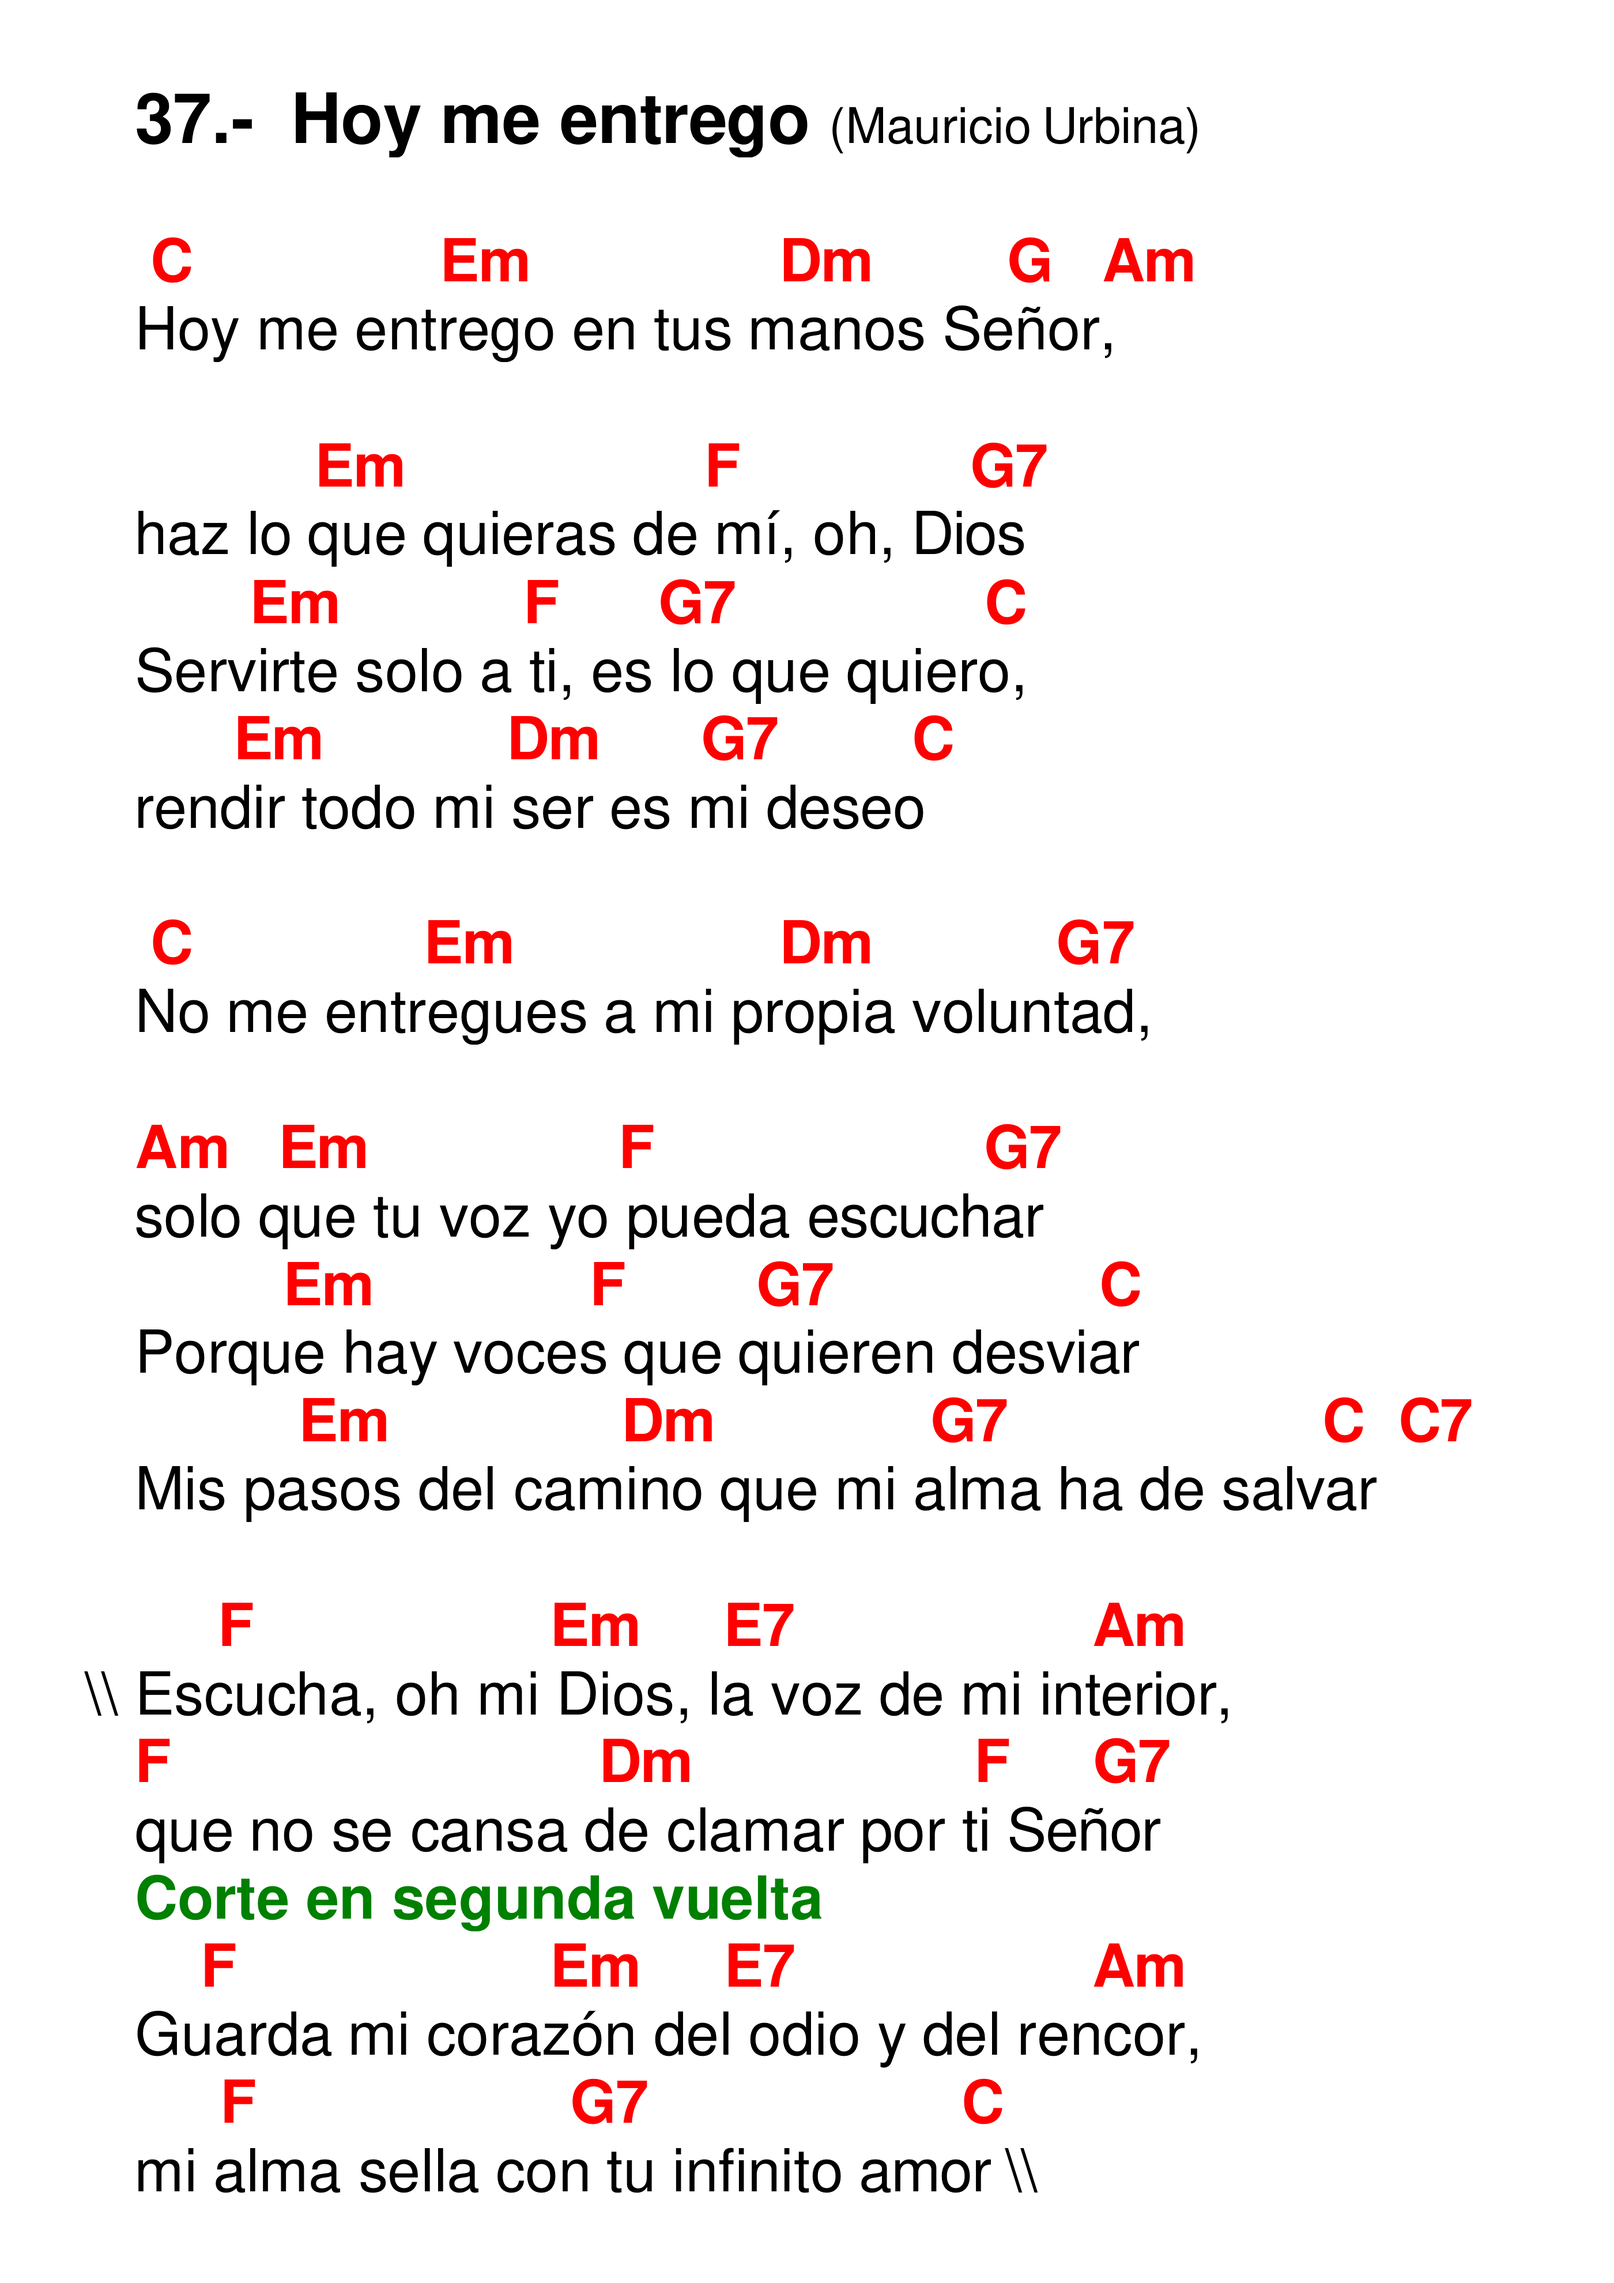
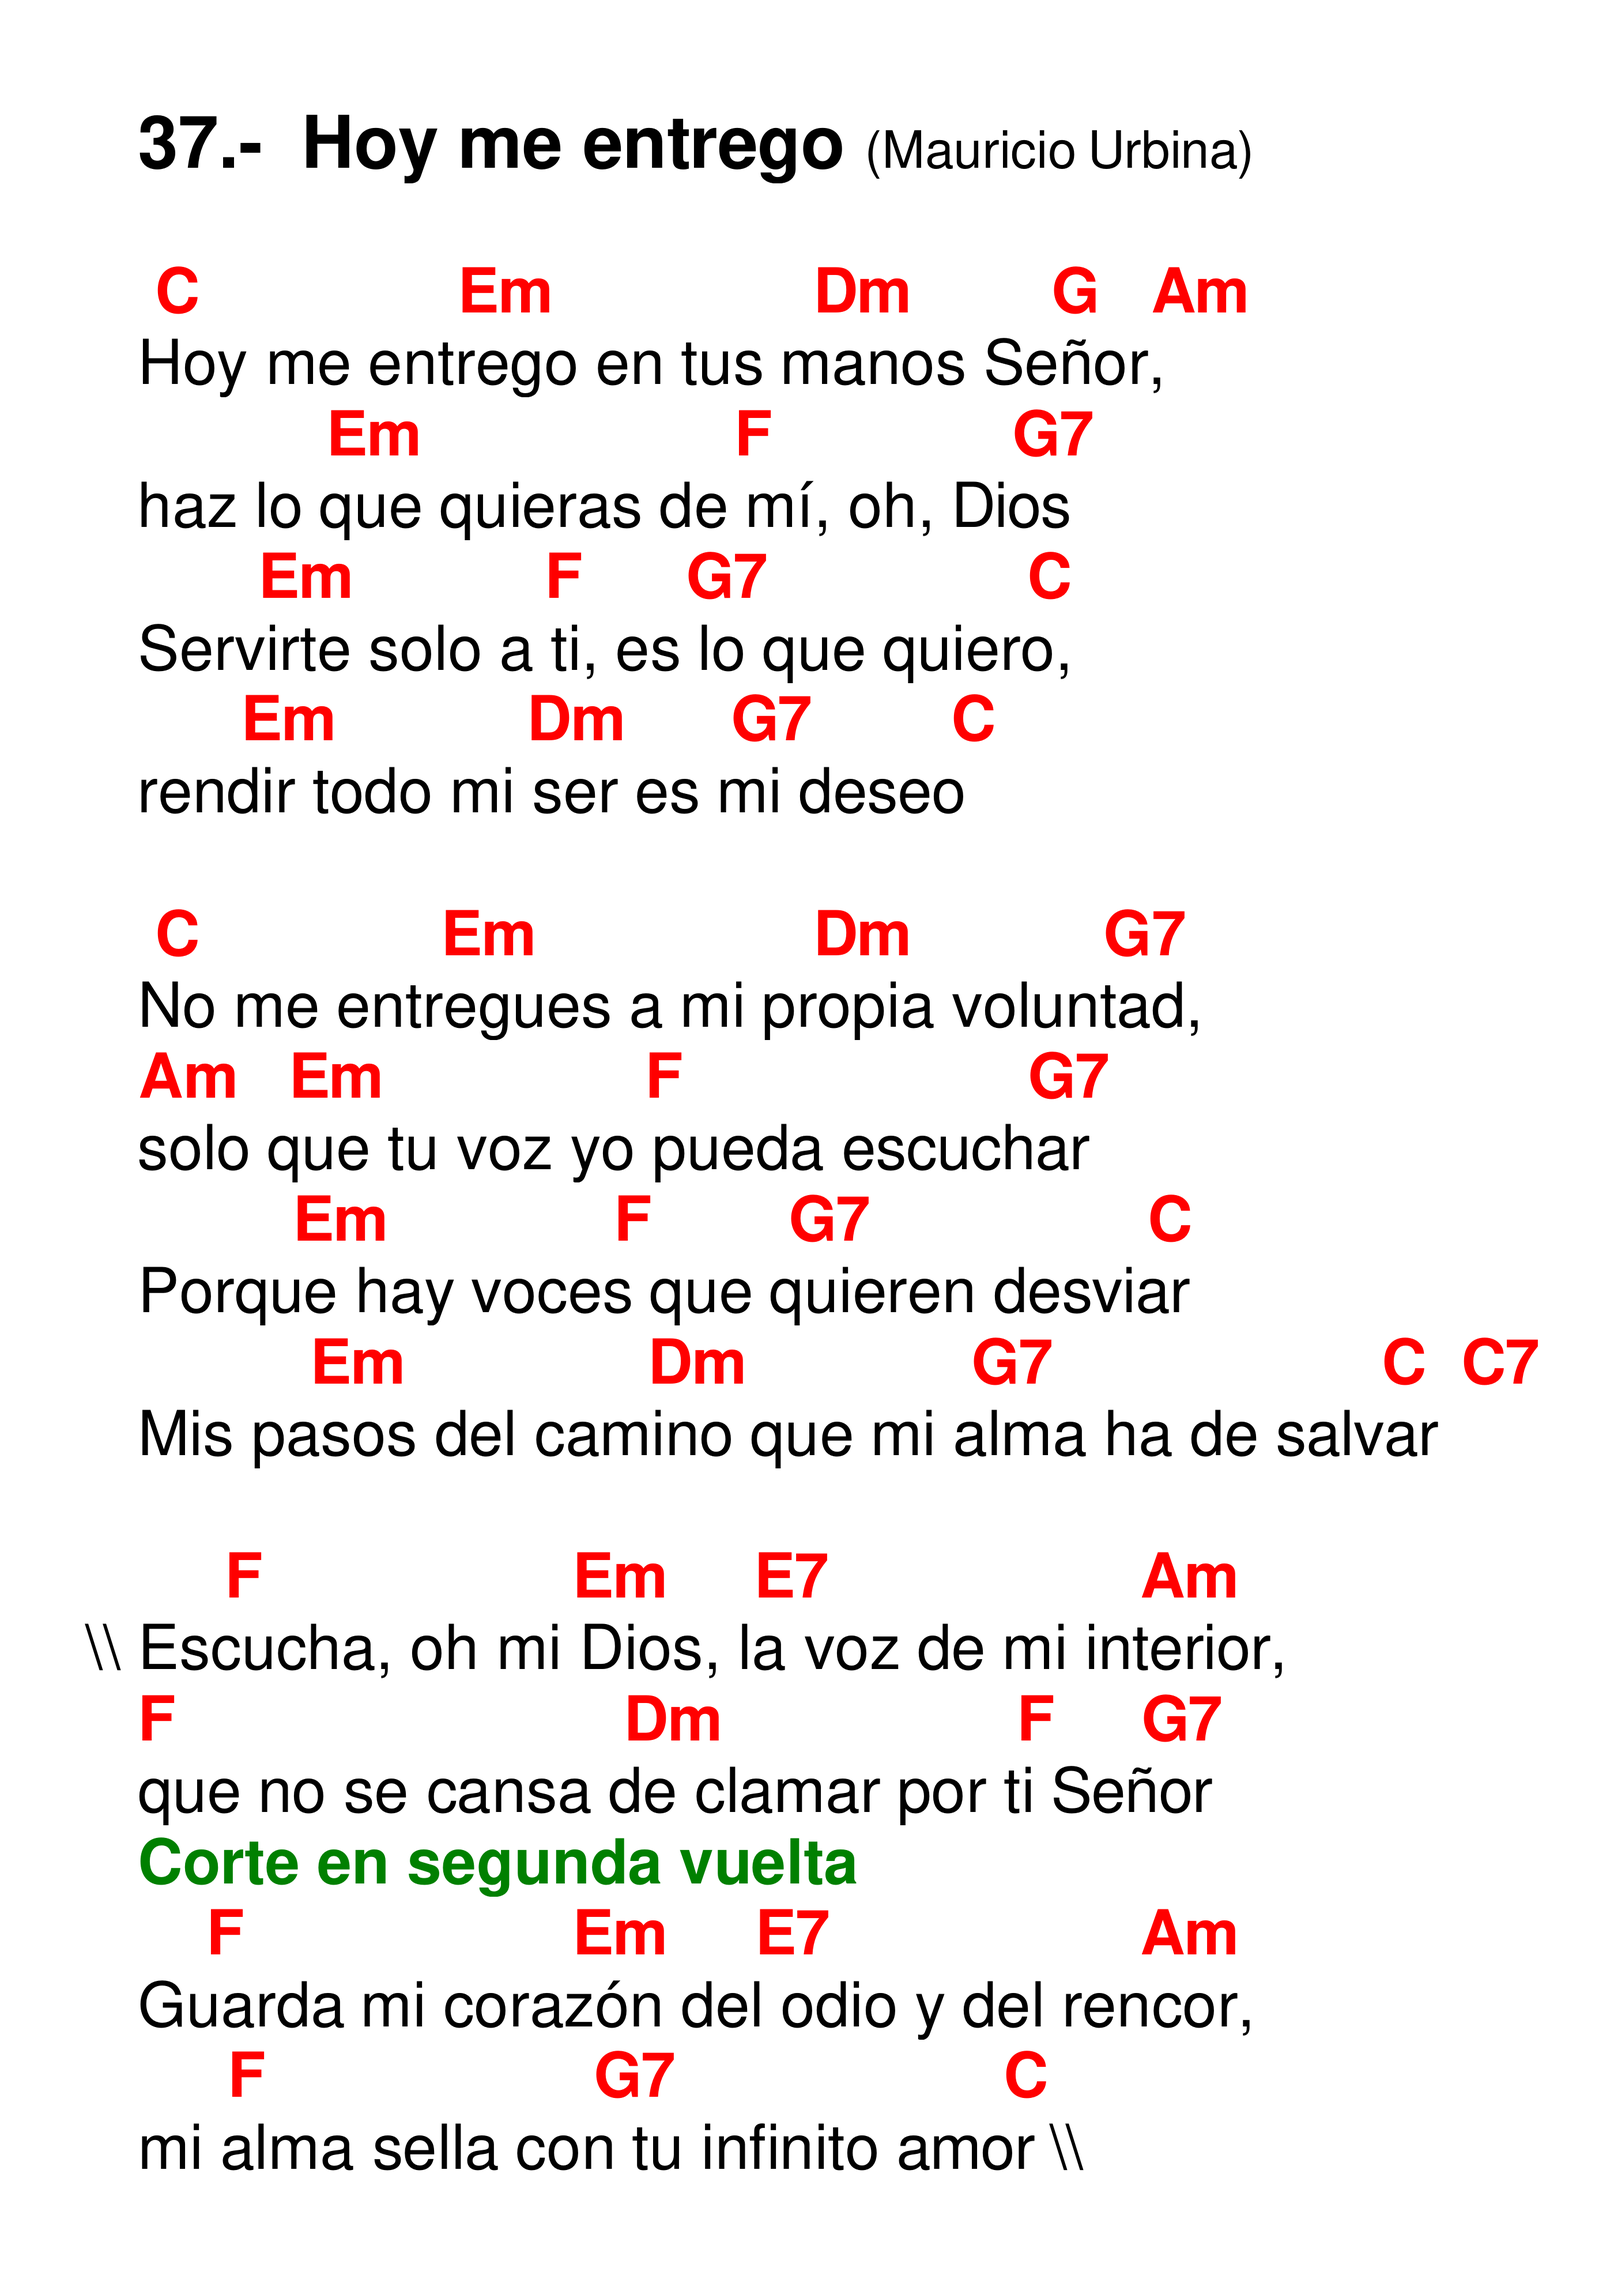
1.29.5: Compañerismo, 37 sin el espacio de más donde se corta la frase
acomodar.py: la frase que baja usaba el espacio de antes de la estrofa cuando el corte era en su primer renglón;
ahora usa el espacio normal entre renglones de la estrofa.

Changed region(s): [[0.0621, 0.4038, 0.9321, 0.9629], [0.0621, 0.0311, 0.7768, 0.3727]]

diff --git a/scripts/himnario-pdf/acomodar.py b/scripts/himnario-pdf/acomodar.py
@@ -137,11 +137,21 @@ def componer(doc, indice, caja_himno, caja_titulo, cfg, es_verde, espacio_titulo
                 queda_algo = ren is salida[-1] or any(c["x1"] <= cx for c in ren["fila"]["chars"] if c["c"].strip())
                 ren["piezas"] = [(x0, cx, 0.0)] if queda_algo else []
                 abajo.append({"y0": ren["y0"], "y1": ren["y1"], "piezas": [(cx, x1, dx)],
-                              "espacio": ren["espacio"] if n else (bloque[0]["espacio"] if bloque[0]["espacio"] > 0 else 2)})
+                              "espacio": ren["espacio"] if n else None})  # None = espacio normal entre renglones (abajo)
             salida[:] = [x for x in salida if x["piezas"]]
             salida.extend(abajo)
             del cortes[clave]
         grupo = []
+    # 13-11-2026 (Josué: «hay un espacio innecesario» bajo «Hoy me entrego…» y «No me entregues…»): la frase que baja
+    # copiaba el espacio de ANTES de la estrofa (grande) cuando el corte era en su primer renglón. Ahora usa el espacio
+    # normal entre una letra y los acordes de abajo dentro de la estrofa (el más común del himno).
+    normales = sorted(round(salida[k]["espacio"], 1) for k in range(1, len(salida))
+                      if salida[k]["espacio"] is not None and salida[k - 1].get("fila", {}).get("letra")
+                      and not salida[k].get("fila", {}).get("letra") and 0 < salida[k]["espacio"] < 8)
+    normal = normales[len(normales) // 2] if normales else 2
+    for ren in salida:
+        if ren["espacio"] is None:
+            ren["espacio"] = normal
     if verdes:
         primero = True
         for y0, y1, x0, x1 in verdes:
